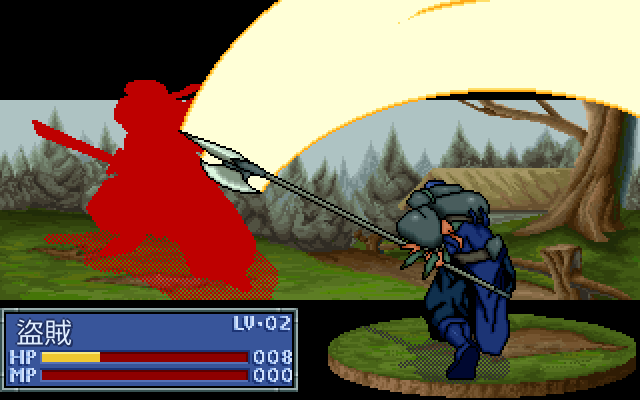
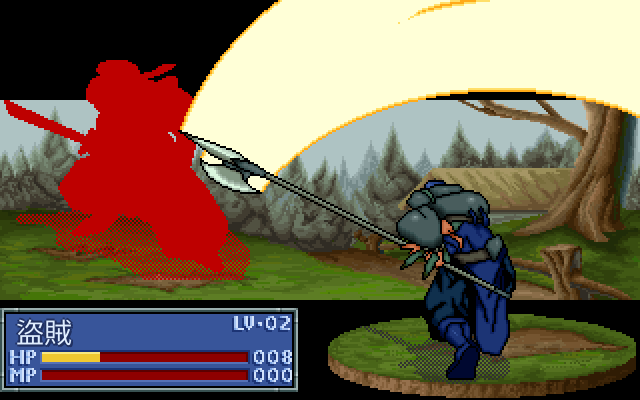
fix: restore native battle impact displacement

Changed region(s): [[0.0, 0.15, 0.3125, 0.69], [0.2188, 0.36, 0.4375, 0.75], [0.25, 0.33, 0.2812, 0.36]]

diff --git a/remake/cmd/fd2/main.go b/remake/cmd/fd2/main.go
@@ -9028,6 +9028,25 @@ func (g *Game) drawCampaignUI(screen *ebiten.Image) {
 // 190,0,0）。它只約束剪影近似的顏色，不代表已接上 0x2939d 的 DAC 脈衝。
 var nativeImpactSilhouetteColor = color.RGBA{0xbe, 0x00, 0x00, 0xff}
 
+var nativeImpactHorizontalDisplacement = [...]int{0, 4, 9, 14, 18, 14}
+var nativeImpactVerticalDisplacement = [...]int{0, 2, 4, 6, 8, 10}
+
+// nativeImpactDisplacement 保存 0x2939D 對 0x5255F／0x52577 的直接消費契約。
+// phase 是原始 5→0 位移相位；negative 對應第一筆 runtime record raw +6 非零
+// 的分支。它不判斷命中、暴擊或 0x29F72 未命名輸出，只轉換已由 caller 擁有的
+// 原始相位與方向。
+func nativeImpactDisplacement(phase int, negative bool) (dx, dy int, ok bool) {
+	if phase < 0 || phase >= len(nativeImpactHorizontalDisplacement) {
+		return 0, 0, false
+	}
+	dx = nativeImpactHorizontalDisplacement[phase]
+	dy = nativeImpactVerticalDisplacement[phase]
+	if negative {
+		dx, dy = -dx, -dy
+	}
+	return dx, dy, true
+}
+
 // battleImpactHP 對應 orig_05 可見的命中邊界：守方在命中演出開始前保留原 HP，
 // 命中開始後立即顯示扣血後 HP。原始傷害／演出寫入者仍未知，因此不從這個邊界
 // 推導其他 native 時序。
@@ -9166,12 +9185,23 @@ func (g *Game) drawBattleScene(screen *ebiten.Image) {
 		}
 		img := fr[fi]
 		// E1 紅色剪影近似；原版 DAC 條件尚未由 raw presentation adapter 提供。
-		if prog >= impactS && prog < impactE && (prog/2)%2 == 0 {
+		impactSilhouette := prog >= impactS && prog < impactE && (prog/2)%2 == 0
+		if impactSilhouette {
 			img = g.redSilhouette(img)
 		}
 		dx, dy := 16.0, 41.0
 		if m := g.figMeta[a.defFig]; fi < len(m) {
 			dx, dy = float64(m[fi][0]), float64(m[fi][1])
+		}
+		if impactSilhouette {
+			// 現有 AttackResult 尚未帶入 0x29F72 的 raw trigger，因此 E1
+			// 剪影只重播原版命中錨點已觀察到的第一個 phase5 present。
+			// 玩家攻擊位於 0x2939D 的 raw +6 非零（負向）視覺分支；
+			// 反向攻擊使用對稱正向分支。完整 5→0 生命週期待 raw owner。
+			if ox, oy, ok := nativeImpactDisplacement(5, a.atkOwn); ok {
+				dx += float64(ox)
+				dy += float64(oy)
+			}
 		}
 		op := &ebiten.DrawImageOptions{}
 		op.GeoM.Scale(sc, sc)

diff --git a/remake/cmd/fd2/atk_animation_test.go b/remake/cmd/fd2/atk_animation_test.go
@@ -97,3 +97,23 @@ func TestBattleImpactHPCommitsPostHitValueAtImpactBoundary(t *testing.T) {
 		t.Fatalf("post-impact HP=%d, want 8", got)
 	}
 }
+
+func TestNativeImpactDisplacementPreserves2939DPhaseAndDirection(t *testing.T) {
+	want := [][2]int{{0, 0}, {4, 2}, {9, 4}, {14, 6}, {18, 8}, {14, 10}}
+	for phase, expected := range want {
+		dx, dy, ok := nativeImpactDisplacement(phase, false)
+		if !ok || dx != expected[0] || dy != expected[1] {
+			t.Fatalf("positive phase %d=(%d,%d)/%v, want %v/true", phase, dx, dy, ok, expected)
+		}
+		dx, dy, ok = nativeImpactDisplacement(phase, true)
+		if !ok || dx != -expected[0] || dy != -expected[1] {
+			t.Fatalf("negative phase %d=(%d,%d)/%v, want (%d,%d)/true",
+				phase, dx, dy, ok, -expected[0], -expected[1])
+		}
+	}
+	for _, phase := range []int{-1, len(want)} {
+		if dx, dy, ok := nativeImpactDisplacement(phase, false); ok || dx != 0 || dy != 0 {
+			t.Fatalf("invalid phase %d=(%d,%d)/%v", phase, dx, dy, ok)
+		}
+	}
+}

diff --git a/docs/knowledge-base/58-fd2-exe-re-coverage.md b/docs/knowledge-base/58-fd2-exe-re-coverage.md
@@ -303,6 +303,7 @@ command30 producer，也不構成缺少AI executor的交付阻擋。
 | `0x14EF0` | [`fd2_ai_14ef0_dispatch_ida.txt`](../data/ida/fd2_ai_14ef0_dispatch_ida.txt) | producer 順序與尾端 dispatch | 未知 command／效果／完整 transaction；不重解既有 dispatch |
 | `0x14237` | [`fd2_ai_physical_score_ida.txt`](../data/ida/fd2_ai_physical_score_ida.txt) | 物理候選評分窄切片 | 完整 planner、target transaction 與 E2 |
 | `0x15311`／`0x1548E` | [`fd2_ai_mode11_full_ida_20260810.txt`](../data/ida/fd2_ai_mode11_full_ida_20260810.txt) | mode 11 兩段 owner／順序 | 未知 command、完整演出與 E2 |
+| `0x28A6C→0x2939D` 命中位移 | [`fd2_battle_impact_displacement_ida.txt`](../data/ida/fd2_battle_impact_displacement_ida.txt) | `RE-CLOSED`／`DATA-READY`：`0x5255F／0x52577` 是六相位水平／垂直位移，不是idle fallback；`0x29F72`未命名輸出、palette33、相位5→0、raw `+6`正負方向與`0x2935B` consumer已閉合 | 只把位移接入既有E1剪影分支並逐幀比較；原始輸出高階名稱、DAC trigger、完整音訊與一般玩家E2仍未知，不重解整個renderer |
 | `0x16F55`、`0x1728C`、`0x117E7`、`0x4E8E1` | [`fd2_system_overlay_options_ida.txt`](../data/ida/fd2_system_overlay_options_ida.txt)、[`fd2_end_turn_command13_owner_ida.txt`](../data/ida/fd2_end_turn_command13_owner_ida.txt)、[`empty cursor owner`](../data/ida/fd2_117e7_empty_cursor_system_overlay_ida.txt)、[`END確認框`](../data/ida/fd2_end_turn_confirmation_ui_ida.txt)、[問句同狀態比較](../data/ui-traces/native-end-turn-confirmation-original-vs-remake-e1.json)、[逐字回覆動態配對](../data/ui-traces/native-end-turn-response-progressive-original-vs-remake-e1.json) | `0x12C0D==-1` 空游標 owner；direction2設定、direction3 END及direction1全軍移動均已接正式E1；END另有DATO #75／FDOTHER #5/#2、FDTXT `0x1A3/0x1A4/0x19C`與`0x1A30B`生命週期；`0x4E8E1`由右往左寫入且`0x9017`是右端錨點 | 精確 DOS tick／音訊及收合逐幀同相位、selector0巢狀current-runtime存讀檔、逐章重製PLAYER-E2；正式資料的selector1 event61／75已接通，其他未具owner的90-entry分派仍失敗即關閉；亦不重解設定writer／consumer、END分支與renderer |
 | `0x19DF7`、`0x1B1E7`、`0x16FF4` | [`fd2_nested_system_menu_ida.txt`](../data/ida/fd2_nested_system_menu_ida.txt)、[`fd2_system_exit_and_group_march_ida.txt`](../data/ida/fd2_system_exit_and_group_march_ida.txt) | `RE-CLOSED`、`DATA-READY`、`RUNTIME-E1`：nested資訊／存檔／讀檔／離場四分派及四個正式 owner 已接。selector2 LOAD 使用 FDTXT `0x19D/0x19E/0x19C`，在私有 `Game` 完成 current-runtime typed handoff，YES 回覆生命週期後才原子替換；selector1 SAVE 從完整 raw baseline 複製未知 bytes，並只接受有 provenance 的 live／新 JOIN 欄位。外層 selector1 全軍移動使用既有 `0x51B91` 表；event61／75 在途中完成各自已證實事件後續行，未知事件在發布前整批拒絕 | 尚缺未修改同狀態逐幀／tick／音訊 E2；長程存讀檔由使用者人工回報問題。正式資料只有 event61／75 兩筆 selector1 rule；不得外推成90-entry全完成，也不得重解四分派、資訊 schedule、selector3目的地或 `0x51B91` 表身 |
 | `0x21AD9`／`0x21B18`（command 13–16 wrapper 家族） | [`fd2_end_turn_command13_owner_ida.txt`](../data/ida/fd2_end_turn_command13_owner_ida.txt) | 四個 command literal、wrapper 參數、共同 indexed presentation owner、玩家／AI callers及正式 E1 | 補同狀態逐幀逐音訊 E2；不重解 wrapper |

diff --git a/docs/knowledge-base/56-fd2-remake-sdd.md b/docs/knowledge-base/56-fd2-remake-sdd.md
@@ -4753,6 +4753,29 @@ post-hit HP，重製端已移除沒有 raw provenance 的 8 tick 中間值；守
 `FD2_BATTLE_FPT` 的純排程橋消費；攻守任一延遲表缺失即失敗即關閉。這只收緊
 renderer 輸入契約，不能把排程本身解讀成命中、傷害或 DAC 語意。
 
+### 2026-08-25：`0x2939D` 命中位移規格（RE-CLOSED／DATA-READY）
+
+IDA Pro 9.4 的直接 consumer 推翻舊「`0x5255F／0x52577` 是 idle fallback」說法：
+兩張表是六相位水平／垂直位移，依序由相位5→0消費：
+
+```text
+(14,10), (18,8), (14,6), (9,4), (4,2), (0,0)
+```
+
+`0x29F72` 第一個未命名輸出為0時，同時啟用相位5與 palette override 33；每個
+frame `+6` inner present後相位減一。第一個 unit raw `+6==0` 使用正方向，非零
+使用負方向。玩家攻擊盜賊的第二次配對因此把守方 idle base 的第一幀從 header
+座標 `(16,40)` 移到 `(2,30)`，其紅色像素邊界與原版命中錨點對上；這只閉合
+剪影位移，不代表其餘畫面像素完全一致。主證據見
+[`fd2_battle_impact_displacement_ida.txt`](../data/ida/fd2_battle_impact_displacement_ida.txt)。
+
+重製端資料規格新增純位移排程：輸入為原始相位與正負方向，輸出為 `(dx,dy)`；
+超出六相位即失敗即關閉。完整六相位目前只到 `DATA-READY`。由於原始
+`0x29F72` 欄位尚未進入 `AttackResult`，正式執行期只把既有 E1 剪影錨點接到
+已觀測的第一個相位5：玩家側攻擊採負方向、敵方側採正方向。不得把 Crit／Hit
+或其他 normalized欄位宣稱為原始 trigger；完整相位生命週期、DAC與精確觸發仍
+失敗即關閉。
+
 ## 2026-08-10：人工智慧與結局音訊的證據閉合更新
 
 本輪把原始人工智慧與終局音訊拆成可驗證的邊界，沒有把尚未證實的演出語意

diff --git a/README.md b/README.md
@@ -402,13 +402,12 @@ E1 執行期產物展示：[`native-battle-ch01-remake-e1.png`](docs/figures/nat
 
 戰鬥動畫解碼與局部位置比較：首頁不再把 2026-07 的舊分鏡
 [`battle_restore.gif`](docs/figures/battle_restore.gif) 當成目前執行期畫面；該圖保留在
-儲存庫作歷史證據。以下是 2026-08-10 以目前 source 重新擷取的命中幀：左為原版
-影像正規化結果，中為重製端，右為逐 RGB 差異遮罩。它可直接看出剩餘差異，並不
-宣稱整個戰鬥介面已完成像素級一致。圖中的3933像素是2026-08-10當時產物；
-2026-08-25以目前原始碼重建完整序列並逐幀搜尋後，最佳相位仍有4436個差異像素，
-主要集中於守方命中剪影，因此不能把差異簡化成單張截圖挑錯時間。
+儲存庫作歷史證據。以下是 2026-08-25 以目前原始碼重新擷取的命中幀：左為原版
+影像正規化結果，中為重製端，右為逐 RGB 差異遮罩。IDA證實並接上原版
+`0x2939D` 的第一個命中位移相位後，最佳frame76由4436降至1330個差異像素；
+剩餘差異主要在狀態欄字形與少量像素，仍不宣稱整個戰鬥介面已完成像素級一致。
 
-![戰鬥命中幀正規化對照與差異遮罩](docs/figures/battle-impact-compare-20260810.png)
+![戰鬥命中幀正規化對照與差異遮罩](docs/figures/battle-impact-compare-20260825.png)
 
 戰鬥狀態欄姓名目前已改接原版 `FDOTHER#4` 16×16 點陣字模；下圖是 Docker／Xvfb
 以目前 source 重新建置的 E1 演出截圖。它只證明姓名字模的消費端，不代表攻擊幀、

diff --git a/docs/knowledge-base/SESSION-HANDOFF-2026-07-06.md b/docs/knowledge-base/SESSION-HANDOFF-2026-07-06.md
@@ -6473,3 +6473,18 @@ raw `+3/+5` writes，不是generic redraw；原資源presenter、group9完整tra
   3933數值只屬2026-08-10當時產物，且目前差異不能只歸因於挑錯frame77。
 - 新增 `tools/docker/fd2-battle-series-compare.sh` 固定量測方式。差異主要集中於守方
   命中剪影；`0x2939D` 的進度／疊層消費端尚未閉合，不以肉眼猜接位移常數。
+
+## 2026-08-25：`0x2939D` 命中位移 consumer 閉合與 E1 接線
+
+- 因上段量測與舊「idle fallback」斷言矛盾，使用IDA Pro 9.4只窄查consumer：
+  `0x5255F／0x52577`已證實是水平`[0,4,9,14,18,14]`與垂直
+  `[0,2,4,6,8,10]`六相位位移；`0x29A21`逐present由相位5降至0，第一個unit
+  raw `+6`決定正負方向。主證據為
+  `docs/data/ida/fd2_battle_impact_displacement_ida.txt`。
+- 重製端完整六相位只到`DATA-READY`；因`AttackResult`仍缺`0x29F72` raw owner，
+  正式執行期只把既有E1剪影錨點接到已觀測的第一個phase5。玩家攻擊採負向
+  `(-14,-10)`，不把Crit／Hit冒充原始trigger。
+- Docker／Xvfb重建完整序列後，最佳仍是frame76，未遮罩RGB `AE`由4436降至
+  1330；守方剪影主要位置差異已消除。新圖為
+  `docs/figures/battle-impact-compare-20260825.png`。這仍不是一般玩家E2、完整DAC、
+  六相位逐幀或精確音訊證據。

diff --git a/docs/knowledge-base/91-worklist.md b/docs/knowledge-base/91-worklist.md
@@ -25,10 +25,11 @@
 
 ### 阻擋完整 remake 的剩餘工作
 
-2026-08-25 戰場命中畫面量測勘誤：以目前原始碼重建完整序列後，最佳 frame76
-仍為 `AE=4436`，差異主要集中於守方命中剪影。下一步先補 `0x2939D` 進度／
-疊層對守方 idle descriptor 的消費證據；禁止由單張影像猜接 `-14,-10` 位移。
-可重跑入口為 `tools/docker/fd2-battle-series-compare.sh`。
+2026-08-25 戰場命中位移已閉合並接上E1錨點：IDA直接consumer證實
+`0x5255F／0x52577`是六相位水平／垂直位移，不是idle descriptor。玩家攻擊的
+第一個相位5接入`(-14,-10)`後，完整序列最佳frame76由`AE=4436`降至`AE=1330`。
+完整六相位因缺`0x29F72` raw owner仍只到`DATA-READY`，不得猜接；後續只補代表性
+一般玩家E2。可重跑入口為`tools/docker/fd2-battle-series-compare.sh`。
 
 依2026-08-23使用者決定，全戰役長程通關改由人工遊玩後回報問題，不再作為代理程式工作項目。現有節點與章節邊界回歸仍保留；人工回報的缺陷再建立窄重現案例。其餘阻擋交付項目如下：
 
